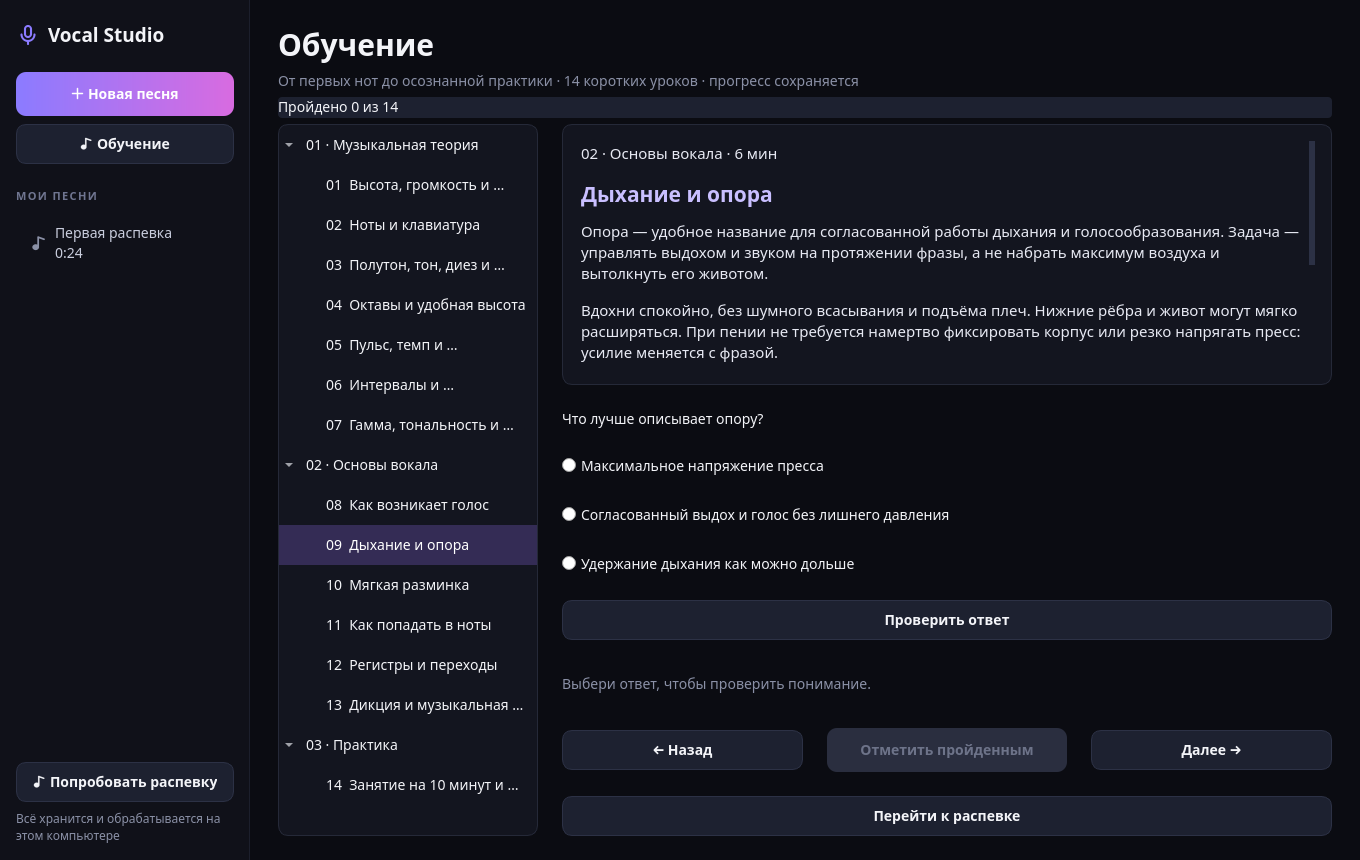
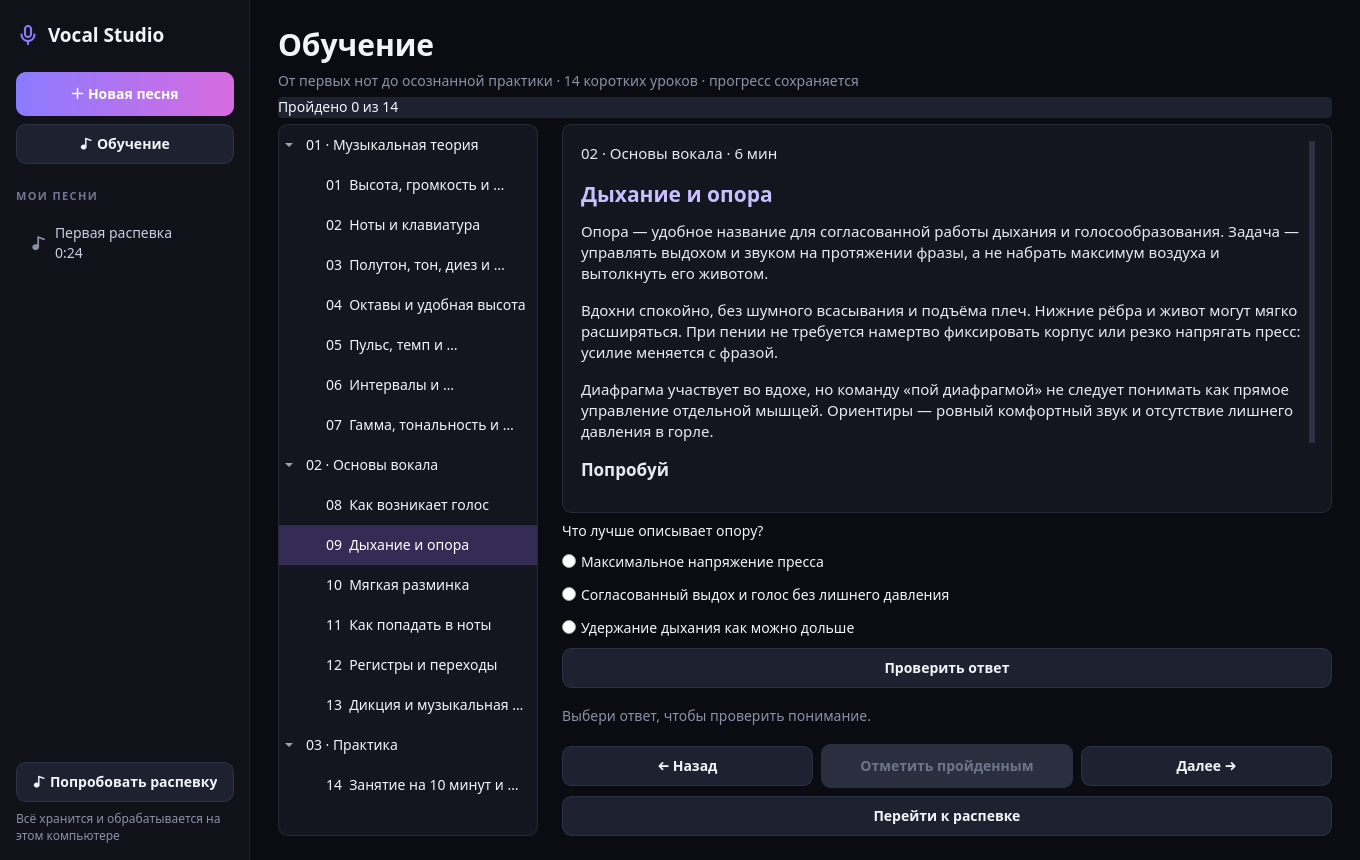
Keep lesson text readable in compact windows

Changed region(s): [[0.4015, 0.3023, 0.9882, 0.9372]]

diff --git a/vocalstudio/learning.py b/vocalstudio/learning.py
@@ -57,8 +57,10 @@ class LearningPage(QWidget):
         self.tree.setStyleSheet('QTreeWidget { background: #13151f; border: 1px solid #252938; border-radius: 10px; } QTreeWidget::item { padding: 10px 4px; } QTreeWidget::item:selected { background: #342c55; }')
         body.addWidget(self.tree)
         right = QVBoxLayout()
+        right.setSpacing(8)
         body.addLayout(right, 1)
         self.reader = QTextBrowser()
+        self.reader.setMinimumHeight(180)
         self.reader.setOpenExternalLinks(False)
         self.reader.setStyleSheet('QTextBrowser { background: #13151f; border: 1px solid #252938; border-radius: 10px; padding: 14px; }')
         right.addWidget(self.reader, 1)
@@ -103,6 +105,7 @@ class LearningPage(QWidget):
                 groups[lesson.module] = group
             item = QTreeWidgetItem(groups[lesson.module])
             item.setData(0, Qt.ItemDataRole.UserRole, index)
+            item.setToolTip(0, lesson.title)
             self.items.append(item)
         self.tree.expandAll()
         self.tree.currentItemChanged.connect(self.changed)
